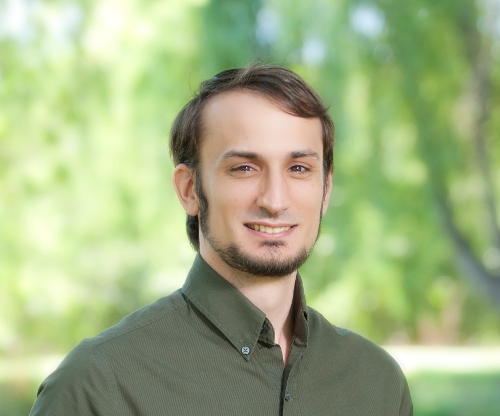
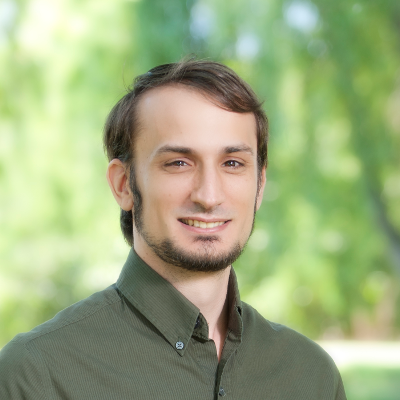
added in skill bars and photo centering classes

diff --git a/index.html b/index.html
@@ -1,11 +1,10 @@
 <html>
   <head>
-        <script src="https://kit.fontawesome.com/372c777a13.js"></script>
+    <script src="https://kit.fontawesome.com/372c777a13.js"></script>
     <script src="https://ajax.googleapis.com/ajax/libs/jquery/3.4.1/jquery.min.js"></script>
 <!--     <script src="https://cdnjs.cloudflare.com/ajax/libs/pts/0.8.8/pts.js"></script> -->
     <link rel="stylesheet" href="https://maxcdn.bootstrapcdn.com/bootstrap/4.0.0/css/bootstrap.min.css" integrity="sha384-Gn5384xqQ1aoWXA+058RXPxPg6fy4IWvTNh0E263XmFcJlSAwiGgFAW/dAiS6JXm" crossorigin="anonymous">
     <script src="https://maxcdn.bootstrapcdn.com/bootstrap/4.0.0/js/bootstrap.min.js" integrity="sha384-JZR6Spejh4U02d8jOt6vLEHfe/JQGiRRSQQxSfFWpi1MquVdAyjUar5+76PVCmYl" crossorigin="anonymous"></script>
-
     <link href="https://fonts.googleapis.com/css?family=Heebo&display=swap" rel="stylesheet">
     <link rel="stylesheet" href="public/styles.css">
     <script src="public/main.js"></script>
@@ -41,10 +40,7 @@
           </li>                
           <li class="nav-item">
             <a class="nav-link" href="#">Contact</a>
-          </li>                
-<!--           <li class="nav-item">
-            <a class="nav-link disabled" href="#">Disabled</a>
-          </li> -->
+          </li>
         </ul>
       </div>
     </nav>
@@ -59,47 +55,104 @@
         </div>
       </div>
 
-      <div id="about" class="about">
+      <div id="about" class="about col-sm-10 offset-sm-1">
         <h4>About</h4>
         <div class="bar about-bar"></div>
-        
+
         <p>
           I believe that software is a powerful tool that can be used to enrich people's lives. Using the medium of the internet, I like to create and present experiences that do just that. 
         </p>
-         
-        <!-- 
 
-        <div class="values">
-          <p>
-            I believe that software is a powerful tool that can be used to enrich people's lives. Using the medium of the internet, I like to create and present experiences that do just that. 
-          </p>
-
-          <div class="hexagons d-flex justify-content-center">
-            <div class="hexagon-wrapper">
-              <div class="hexagon"><i class="team-icon fas fa-people-carry"></i></div>
-            </div>
-            <div class="hexagon-wrapper">
-              <div class="hexagon"></div>
-            </div>
-            <div class="hexagon-wrapper">
-              <div class="hexagon"></div>
-            </div>             
+        <div class="details row col-lg-12">
+          <div class="left-column col col-lg-5">
+            <div class="photo-wrapper col col-lg-12 d-flex justify-content-center ">
+              <img src="public/km.png"/>
+            </div> 
+            <div class="w-100"></div>
+            <div class="descripton col col-lg-12">
+              <p>Some test text for reals.</p>
+            </div>           
           </div>
-         
-        </div> -->
+          <div class="col-lg-7 col skills-container">
+            <div class="bar-bg col-lg-9 col-offset-3 p-0">
+              <div class="bar-label">Ruby/Rails</div>
+              <div class="percentage rails col"></div>
+              <span>80%</span>              
+            </div>  
+            <div class="bar-bg col-lg-9 col-offset-3 p-0">
+              <div class="bar-label">Redis</div>
+              <div class="percentage redis col"></div>
+              <span>65%</span>              
+            </div>              
+            <div class="bar-bg col-lg-9 col-offset-3 p-0">
+              <div class="bar-label">Sidekiq</div>
+              <div class="percentage sidekiq col"></div>
+              <span>70%</span>              
+            </div>                        
+            <div class="w-100 spacer"></div>          
+            <div class="bar-bg col-lg-9 col-offset-3 p-0">
+              <div class="bar-label">Javascript</div>
+              <div class="percentage js col"></div>
+              <span>70%</span>
+            </div>    
+            <div class="bar-bg col-lg-9 col-offset-3 p-0">
+              <div class="bar-label">Node</div>
+              <div class="percentage node col"></div>
+              <span>60%</span>              
+            </div>   
+            <div class="w-100 spacer"></div>
+            <div class="bar-bg col-lg-9 col-offset-3 p-0">
+              <div class="bar-label">AWS</div>
+              <div class="percentage aws col"></div>
+              <span>65%</span>              
+            </div>             
+            <div class="bar-bg col-lg-9 col-offset-3 p-0">
+              <div class="bar-label" style="font-size: 14px;">Digital Ocean</div>
+              <div class="percentage digital-ocean col"></div>
+              <span>75%</span>              
+            </div>   
+            <div class="bar-bg col-lg-9 col-offset-3 p-0">
+              <div class="bar-label">Heroku</div>
+              <div class="percentage heroku col"></div>
+              <span>65%</span>              
+            </div> 
+            <div class="w-100 spacer"></div>                               
+            <div class="bar-bg col-lg-9 col-offset-3 p-0">
+              <div class="bar-label">HTML5</div>
+              <div class="percentage html col"></div>
+              <span>60%</span>              
+            </div>            
+            <div class="bar-bg col-lg-9 col-offset-3 p-0">
+              <div class="bar-label">CSS</div>
+              <div class="percentage css col"></div>
+              <span>60%</span>              
+            </div>   
+            <div class="bar-bg col-lg-9 col-offset-3 p-0">
+              <div class="bar-label">React</div>
+              <div class="percentage react col"></div>
+              <span>50%</span>              
+            </div>   
+            <div class="w-100 spacer"></div>            
+            <div class="bar-bg col-lg-9 col-offset-3 p-0">
+              <div class="bar-label">Photoshop</div>
+              <div class="percentage photoshop col"></div>
+              <span>40%</span>              
+            </div>                      
+          </div>
+          
+          
+        </div>
       </div>
     </div>
-
-<!--     <div class="shadowbox">
-      <h1 class="intro-titling">
-        Hello, I'm <span>Kevin Maze</span>
-      </h1>
-      <p>
-        Not sure what I want to put in here yet, but I need some sample text to test with. Not sure what I want to put in here yet, but I need some sample text to test with. Not sure what I want to put in here yet, but I need some sample text to test with. Not sure what I want to put in here yet, but I need some sample text to test with.
-      </p>
-      <p>
-        Not sure what I want to put in here yet, but I need some sample text to test with. Not sure what I want to put in here yet, but I need some sample text to test with. Not sure what I want to put in here yet, but I need some sample text to test with. Not sure what I want to put in here yet, but I need some sample text to test with.
-      </p>      
-    </div> -->
   </body>
 </html>
+
+<!-- -->
+
+
+
+
+
+
+
+

diff --git a/public/styles.css b/public/styles.css
@@ -286,8 +286,8 @@ body {
   .about p {
     font-family: "Heebo", sans-serif;
     text-align: center;
-    width: 48%;
-    margin-left: 26%;
+    width: 58%;
+    margin-left: 21%;
     font-size: 20px;
     margin-top: 30px; }
   .about h4 {
@@ -298,6 +298,68 @@ body {
   .about .about-bar {
     width: 10%;
     margin-left: 45%; }
+  .about .details {
+    margin-top: 70px; }
+    .about .details .photo-wrapper {
+      padding: 20px;
+      width: 100%; }
+      .about .details .photo-wrapper img {
+        border-radius: 50%;
+        width: 200px;
+        height: 200px; }
+
+.spacer {
+  height: 15px; }
+
+.bar-bg {
+  background-color: #eaeaea;
+  height: 30px;
+  margin-bottom: 10px; }
+  .bar-bg .bar-label {
+    width: 20%;
+    display: inline-block;
+    height: inherit;
+    line-height: 30px;
+    text-align: center;
+    font-family: 'Heebo', sans-serif;
+    background-color: #339595;
+    color: white; }
+  .bar-bg .percentage {
+    background-color: #339594bd;
+    display: inline-block;
+    top: 0;
+    left: 20%;
+    position: absolute;
+    height: 30px; }
+  .bar-bg .js {
+    width: 50%; }
+  .bar-bg .rails {
+    width: 60%; }
+  .bar-bg .node {
+    width: 40%; }
+  .bar-bg .html {
+    width: 40%; }
+  .bar-bg .react {
+    width: 30%; }
+  .bar-bg .photoshop {
+    width: 20%; }
+  .bar-bg .css {
+    width: 40%; }
+  .bar-bg .digital-ocean {
+    width: 55%; }
+  .bar-bg .aws {
+    width: 45%; }
+  .bar-bg .sidekiq {
+    width: 50%; }
+  .bar-bg .redis {
+    width: 45%; }
+  .bar-bg .heroku {
+    width: 45%; }
+  .bar-bg span {
+    line-height: 30px;
+    margin-right: 10px;
+    color: #339594;
+    float: right; }
 
 .hexagon-wrapper {
   text-align: center;

diff --git a/scss/styles.scss b/scss/styles.scss
@@ -76,8 +76,8 @@ body{
   p{
     font-family: "Heebo", sans-serif;
     text-align: center;
-    width: 48%;
-    margin-left: 26%;
+    width: 58%;
+    margin-left: 21%;
     font-size: 20px;
     margin-top: 30px;
   }
@@ -94,8 +94,105 @@ body{
     margin-left: 45%;
   }
 
-  .values {
+  .details {
+    margin-top: 70px;
+    .photo-wrapper{
+      padding: 20px;
+      width: 100%;
 
+      img{
+        border-radius: 50%;
+        width: 200px;
+        height: 200px;
+      }
+    }
+  }
+}
+
+.spacer{
+  height: 15px;
+}
+
+.bar-bg{
+  background-color: #eaeaea;
+  height: 30px;
+  margin-bottom: 10px;
+
+
+  .bar-label{
+    width: 20%;
+    display: inline-block;
+    height: inherit;
+    line-height: 30px;
+    text-align: center;
+    font-family: 'Heebo', sans-serif;
+    background-color: #339595;
+    color: white;
+  }
+
+  .percentage{
+    background-color: #339594bd;
+    display: inline-block;
+    top: 0;
+    left: 20%;
+    position: absolute;
+    height: 30px;
+  }
+
+  .js{
+    width: 50%;
+    
+  } 
+
+  .rails{
+    width: 60%;
+  } 
+
+  .node{
+    width: 40%;
+  }
+
+  .html{
+    width: 40%;
+  }
+
+  .react{
+    width: 30%;
+  }
+
+  .photoshop{
+    width: 20%;
+  }
+
+  .css {
+    width: 40%;
+  }
+
+  .digital-ocean{
+    width: 55%;
+  }
+
+  .aws{
+    width: 45%;    
+  }
+
+  .sidekiq{
+    width: 50%;
+  }
+
+  .redis{
+   width: 45%; 
+  }
+
+  .heroku{
+    width: 45%; 
+  }
+
+  span{
+    line-height: 30px;
+    margin-right: 10px;
+    color: #339594;
+    float:right;
   }
 }
 
